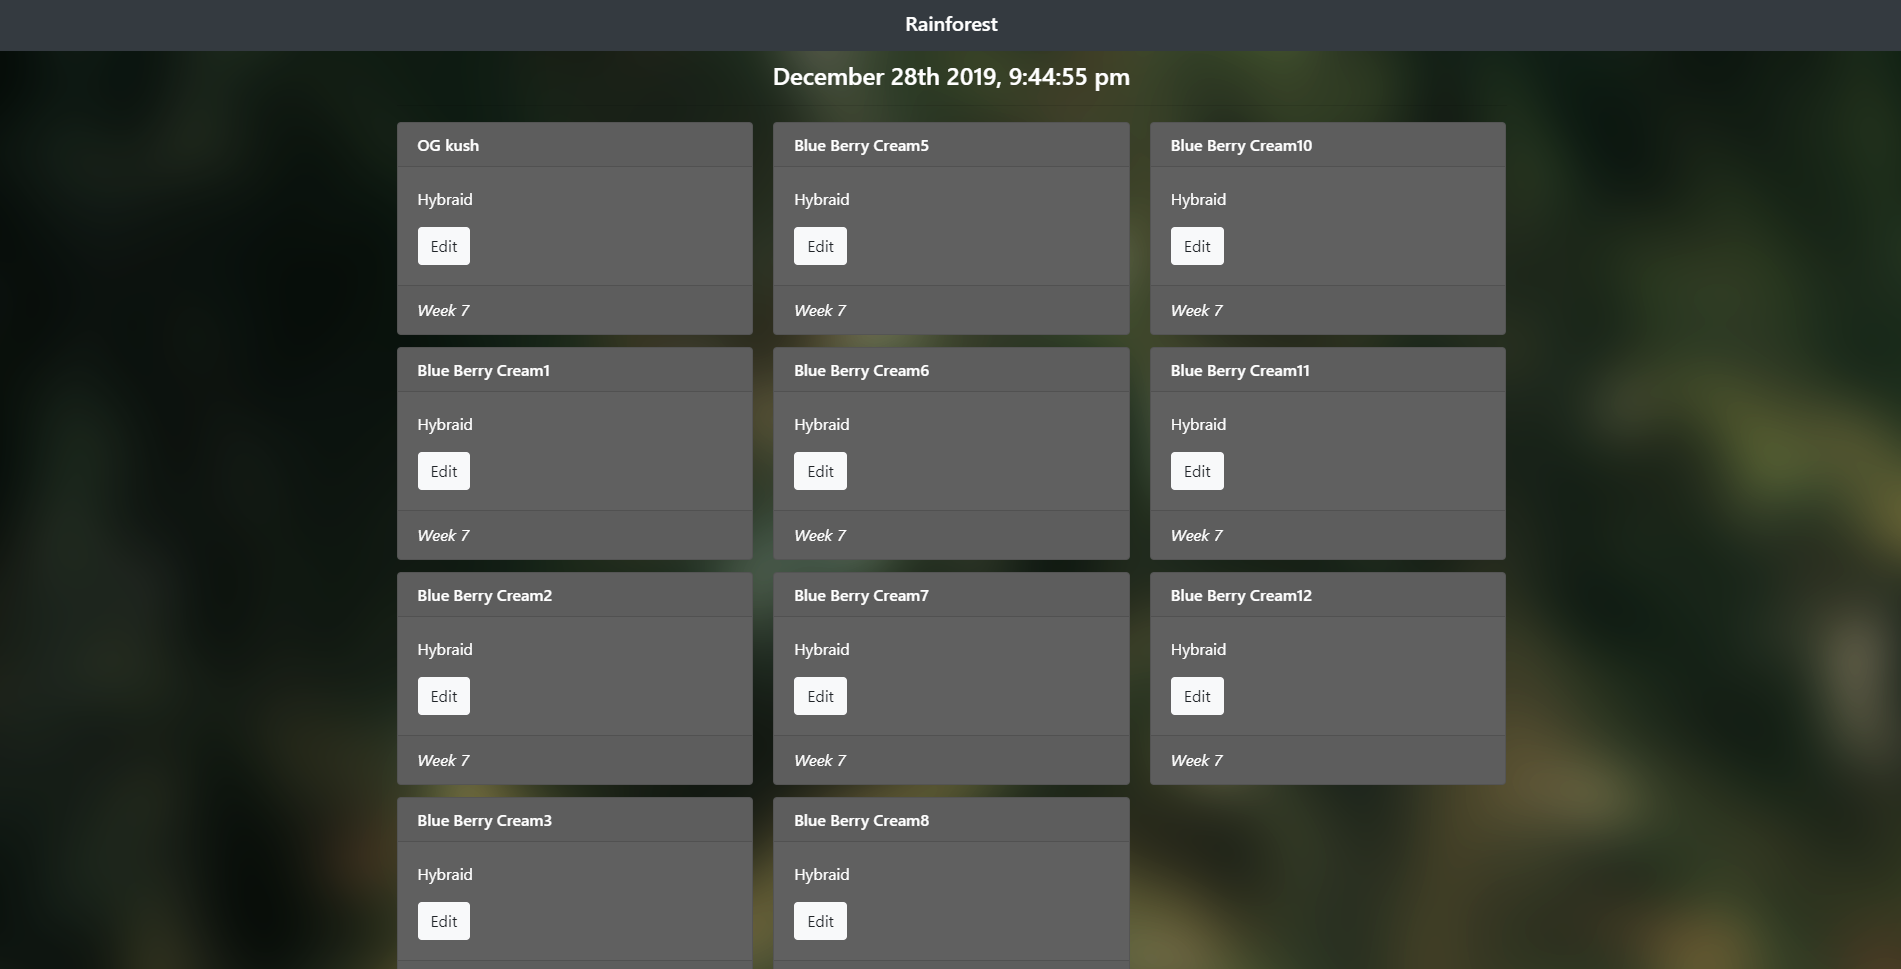
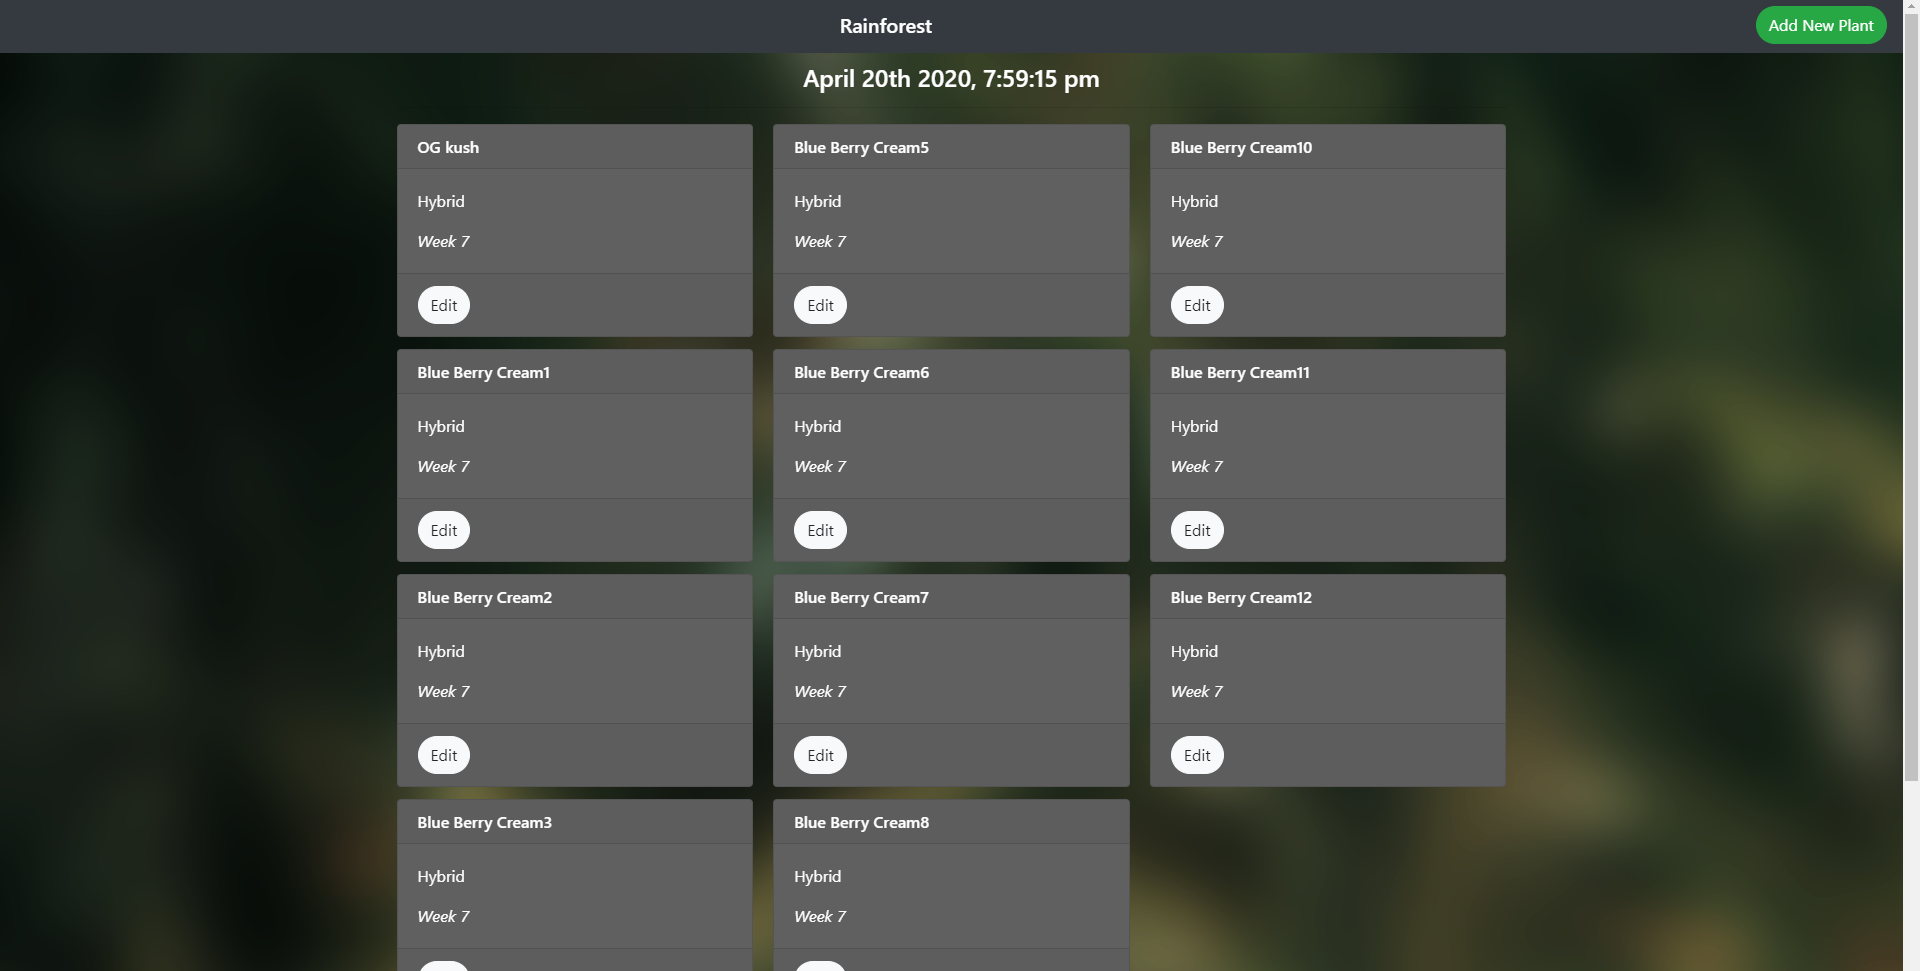
##

diff --git a/src/renderer/components/Home.vue b/src/renderer/components/Home.vue
@@ -1,6 +1,7 @@
 <template>
   <div style="background-image:url('src/renderer/assets/BG.png');">
     <div class="container">
+      
       <h4 style="text-align:center; color:#ffffff; padding-top:10px; margin-bottom:10px;">{{ currtime }}</h4>
       <hr>
           
@@ -13,139 +14,139 @@
 
 <script>
 
-// three.js
-import * as THREE from 'three'
-// moment.js
-import moment from 'moment';
-// electron-db
-import db from 'electron-db';
-import { setInterval } from 'timers';
-import plantsCard from './reusable/PlantsCards';
-import path from 'path';
+  // three.js
+  import * as THREE from 'three'
+  // electron-db
+  import db from 'electron-db';
+  // moment.js
+  import moment from 'moment';
+  import { setInterval } from 'timers';
+  import plantsCard from './reusable/PlantsCards';
+  import path from 'path';
 
-// path to database file
-const location = path.join(__dirname, '')
+  // path to database file
+  const location = path.join(__dirname, '')
 
-export default {
-  components:{
-    plantsCard
-  },
-  data(){
-    return{
-      currtime: moment().format('MMMM Do YYYY, h:mm:ss a'),
-      MyPlantsDB:[
-        // {name: "OG kush", dominant: "Indica", CurrentTime: "Week 7"},
-        // {name: "Blueberry", dominant: "Indica", CurrentTime: "Week 8"},
-        // {name: "Jack Herer", dominant: "Sativa", CurrentTime: "Week 7"},
-        // {name: "Blue Cheese", dominant: "Indica", CurrentTime: "Week 8"},
-        // {name: "Blue Berry", dominant: "Indica", CurrentTime: "Week 9"},
-        // {name: "Blue Berry Cheese", dominant: "Indica", CurrentTime: "Week 9"},
-        // {name: "Blue Berry Cream", dominant: "Indica", CurrentTime: "Week 9"},
-        // {name: "Blue Berry Cream1", dominant: "Indica", CurrentTime: "Week 9"},
-        // {name: "Blue Berry Cream2", dominant: "Indica", CurrentTime: "Week 9"},
-        // {name: "Blue Berry Cream3", dominant: "Indica", CurrentTime: "Week 9"},
-        // {name: "Blue Berry Cream4", dominant: "Indica", CurrentTime: "Week 9"},
-        // {name: "Blue Berry Cream5", dominant: "Indica", CurrentTime: "Week 9"},
-        // {name: "Blue Berry Cream6", dominant: "Indica", CurrentTime: "Week 9"},
-        // {name: "Blue Berry Cream7", dominant: "Indica", CurrentTime: "Week 9"},
-        // {name: "Blue Berry Cream8", dominant: "Indica", CurrentTime: "Week 9"},
-        // {name: "Blue Berry Cream9", dominant: "Indica", CurrentTime: "Week 9"},
-        // {name: "Blue Berry Cream10", dominant: "Indica", CurrentTime: "Week 9"},
-        // {name: "Blue Berry Cream11", dominant: "Indica", CurrentTime: "Week 9"},
-        // {name: "Blue Berry Cream12", dominant: "Indica", CurrentTime: "Week 9"},
-        // {name: "Blue Berry Cream13", dominant: "Indica", CurrentTime: "Week 9"},
-        // {name: "Blue Berry Cream14", dominant: "Indica", CurrentTime: "Week 9"},
+  export default {
+    components:{
+      plantsCard
+    },
+    data(){
+      return{
+        currtime: moment().format('MMMM Do YYYY, h:mm:ss a'),
+        MyPlantsDB:[
+          // {name: "OG kush", dominant: "Indica", CurrentTime: "Week 7"},
+          // {name: "Blueberry", dominant: "Indica", CurrentTime: "Week 8"},
+          // {name: "Jack Herer", dominant: "Sativa", CurrentTime: "Week 7"},
+          // {name: "Blue Cheese", dominant: "Indica", CurrentTime: "Week 8"},
+          // {name: "Blue Berry", dominant: "Indica", CurrentTime: "Week 9"},
+          // {name: "Blue Berry Cheese", dominant: "Indica", CurrentTime: "Week 9"},
+          // {name: "Blue Berry Cream", dominant: "Indica", CurrentTime: "Week 9"},
+          // {name: "Blue Berry Cream1", dominant: "Indica", CurrentTime: "Week 9"},
+          // {name: "Blue Berry Cream2", dominant: "Indica", CurrentTime: "Week 9"},
+          // {name: "Blue Berry Cream3", dominant: "Indica", CurrentTime: "Week 9"},
+          // {name: "Blue Berry Cream4", dominant: "Indica", CurrentTime: "Week 9"},
+          // {name: "Blue Berry Cream5", dominant: "Indica", CurrentTime: "Week 9"},
+          // {name: "Blue Berry Cream6", dominant: "Indica", CurrentTime: "Week 9"},
+          // {name: "Blue Berry Cream7", dominant: "Indica", CurrentTime: "Week 9"},
+          // {name: "Blue Berry Cream8", dominant: "Indica", CurrentTime: "Week 9"},
+          // {name: "Blue Berry Cream9", dominant: "Indica", CurrentTime: "Week 9"},
+          // {name: "Blue Berry Cream10", dominant: "Indica", CurrentTime: "Week 9"},
+          // {name: "Blue Berry Cream11", dominant: "Indica", CurrentTime: "Week 9"},
+          // {name: "Blue Berry Cream12", dominant: "Indica", CurrentTime: "Week 9"},
+          // {name: "Blue Berry Cream13", dominant: "Indica", CurrentTime: "Week 9"},
+          // {name: "Blue Berry Cream14", dominant: "Indica", CurrentTime: "Week 9"},
 
-      ]
-    }
-  },
-  mounted() {
-
-
-    // turn on the clock
-    setInterval(function(){
-      this.currtime = moment().format('MMMM Do YYYY, h:mm:ss a')
-    }.bind(this), 1000)
-
-    // init();
-    // animate();
+        ]
+      }
+    },
+    mounted() {
 
 
+      // turn on the clock
+      setInterval(function(){
+        this.currtime = moment().format('MMMM Do YYYY, h:mm:ss a')
+      }.bind(this), 1000)
+
+      // init();
+      // animate();
 
 
-    // If db valid load data, else create db
-    if (db.valid("plantsDB", location)) {
-      // Get all plants from database
-      db.getAll("plantsDB", location, (succ, data) => {
-        // Load all datas
-        this.MyPlantsDB = data
-        console.log("Plants Data Loaded From DB!");
-        
-        console.log(data);
-        
 
-        
-      })
-    }else{
-      // Creating the table
-      db.createTable("plantsDB", location, (succ, msg) =>{
-          // bool succ = tells if call is successful
-          // string msg = debugging message
-          console.log("DB Creation Success!  " + succ)
-          console.log("DB Message: " + msg)
-      })
-    }
 
-    // // if this DB exist at this specific location
-    // if (db.valid("plantsDB", location)) {
-    
-    //   // create new plant object
-    //   let obj = new Object()
-    //   obj.Pname = "OG kush"
-    //   obj.dominant = "Hybraid"
-    //   obj.CurrWeek = "Week 7"
+      // If db valid load data, else create db
+      if (db.valid("plantsDB", location)) {
+        // Get all plants from database
+        db.getAll("plantsDB", location, (succ, data) => {
+          // Load all datas
+          this.MyPlantsDB = data
+          console.log("Plants Data Loaded From DB!");
+          
+          console.log(data);
+          
+
+          
+        })
+      }else{
+        // Creating the table
+        db.createTable("plantsDB", location, (succ, msg) =>{
+            // bool succ = tells if call is successful
+            // string msg = debugging message
+            console.log("DB Creation Success!  " + succ)
+            console.log("DB Message: " + msg)
+        })
+      }
+
+      // // if this DB exist at this specific location
+      // if (db.valid("plantsDB", location)) {
       
-    //   // insert it into table (plantsDB)
-    //   db.insertTableContent("plantsDB", location, obj, (succ, msg) => {
-    //       console.log("Insertion Success: " + succ)
-    //       console.log("Insertion Message: " + msg)
-    //   })
-    // }
- 
+      //   // create new plant object
+      //   let obj = new Object()
+      //   obj.Pname = "OG kush"
+      //   obj.dominant = "Hybraid"
+      //   obj.CurrWeek = "Week 7"
+        
+      //   // insert it into table (plantsDB)
+      //   db.insertTableContent("plantsDB", location, obj, (succ, msg) => {
+      //       console.log("Insertion Success: " + succ)
+      //       console.log("Insertion Message: " + msg)
+      //   })
+      // }
+  
+    }
   }
-}
- 
-// var camera, scene, renderer;
-// var geometry, material, mesh;
-// function init() {
- 
-//     camera = new THREE.PerspectiveCamera( 70, window.innerWidth / window.innerHeight, 0.01, 10 );
-//     camera.position.z = 1;
- 
-//     scene = new THREE.Scene();
- 
-//     geometry = new THREE.BoxGeometry( 0.2, 0.2, 0.2 );
-//     material = new THREE.MeshNormalMaterial();
- 
-//     mesh = new THREE.Mesh( geometry, material );
-//     scene.add( mesh );
- 
-//     renderer = new THREE.WebGLRenderer( { antialias: true } );
-//     renderer.setSize( window.innerWidth, window.innerHeight );
-//     document.body.appendChild( renderer.domElement );
- 
-// }
- 
-// function animate() {
- 
-//     requestAnimationFrame( animate );
- 
-//     mesh.rotation.x += 0.01;
-//     mesh.rotation.y += 0.02;
- 
-//     renderer.render( scene, camera );
- 
-// }
+  
+  // var camera, scene, renderer;
+  // var geometry, material, mesh;
+  // function init() {
+  
+  //     camera = new THREE.PerspectiveCamera( 70, window.innerWidth / window.innerHeight, 0.01, 10 );
+  //     camera.position.z = 1;
+  
+  //     scene = new THREE.Scene();
+  
+  //     geometry = new THREE.BoxGeometry( 0.2, 0.2, 0.2 );
+  //     material = new THREE.MeshNormalMaterial();
+  
+  //     mesh = new THREE.Mesh( geometry, material );
+  //     scene.add( mesh );
+  
+  //     renderer = new THREE.WebGLRenderer( { antialias: true } );
+  //     renderer.setSize( window.innerWidth, window.innerHeight );
+  //     document.body.appendChild( renderer.domElement );
+  
+  // }
+  
+  // function animate() {
+  
+  //     requestAnimationFrame( animate );
+  
+  //     mesh.rotation.x += 0.01;
+  //     mesh.rotation.y += 0.02;
+  
+  //     renderer.render( scene, camera );
+  
+  // }
 </script>
 
 <style>

diff --git a/src/renderer/components/reusable/PlantsCards.vue b/src/renderer/components/reusable/PlantsCards.vue
@@ -8,36 +8,22 @@
       <!-- Card Subtitle -->
       <b-card-text>{{plant.dominant}}</b-card-text>
 
-      <!-- Edit Button -->
-      <b-button variant="light" v-b-modal="plant.id">Edit</b-button>
+
       
-      <!-- Editor Modal -->
-      <b-modal ref="EditModal" id="plant.id" title="Edit Plant" hide-footer>
-        <h2 class="my-1">{{plant.Pname}}</h2>
-        <hr>
-        <b-button variant="light" @click="hideModal">Cancel</b-button>
-        <b-button variant="success" @click="saveModal">Save</b-button>
-      </b-modal>
+
 
       <!-- Current Week -->
-      <em slot="footer">{{plant.CurrWeek}}</em>
+      <em>{{plant.CurrWeek}}</em>
 
+      <!-- Edit Button -->
+      <b-button pill slot="footer" style="right:5px;" variant="light" v-b-modal="plant.id">Edit</b-button>
     </b-card>
   </b-card-group>
 </template>
 
 <script>
   export default {
-    methods:{
-      hideModal(){
-        this.$refs["EditModal"].hide()
 
-      },
-      saveModal(){
-        this.$refs['EditModal'].hide()
-        
-      }
-    },
     name: "plantsCard",
     props: ['plants'],
   }

diff --git a/src/renderer/components/reusable/Navbar.vue b/src/renderer/components/reusable/Navbar.vue
@@ -1,15 +1,35 @@
 <template>
   <div>
     <b-navbar variant="dark" type="dark" class="navbar1">
+
       <b-navbar-brand tag="h1" style="text-align:center; margin:auto;">
         Rainforest
       </b-navbar-brand>
+
+      <b-button pill variant="success">Add New Plant</b-button>
     </b-navbar>
+
+    <b-collapse id="collapse-bar" class="mt-2">
+      <b-card>
+        
+      </b-card>
+    </b-collapse>
   </div>
 </template>
 
 <script>
+
+
   export default {
+    data(){
+      return{
+
+      }
+    },
+    mounted(){
+
+
+    },
     name: "navbars"
   }
 </script>

diff --git a/src/renderer/components/reusable/NewPlantModel.vue b/src/renderer/components/reusable/NewPlantModel.vue
@@ -1,0 +1,12 @@
+<template>
+
+</template>
+
+<script>
+
+</script>
+
+<style>
+
+
+</style>
